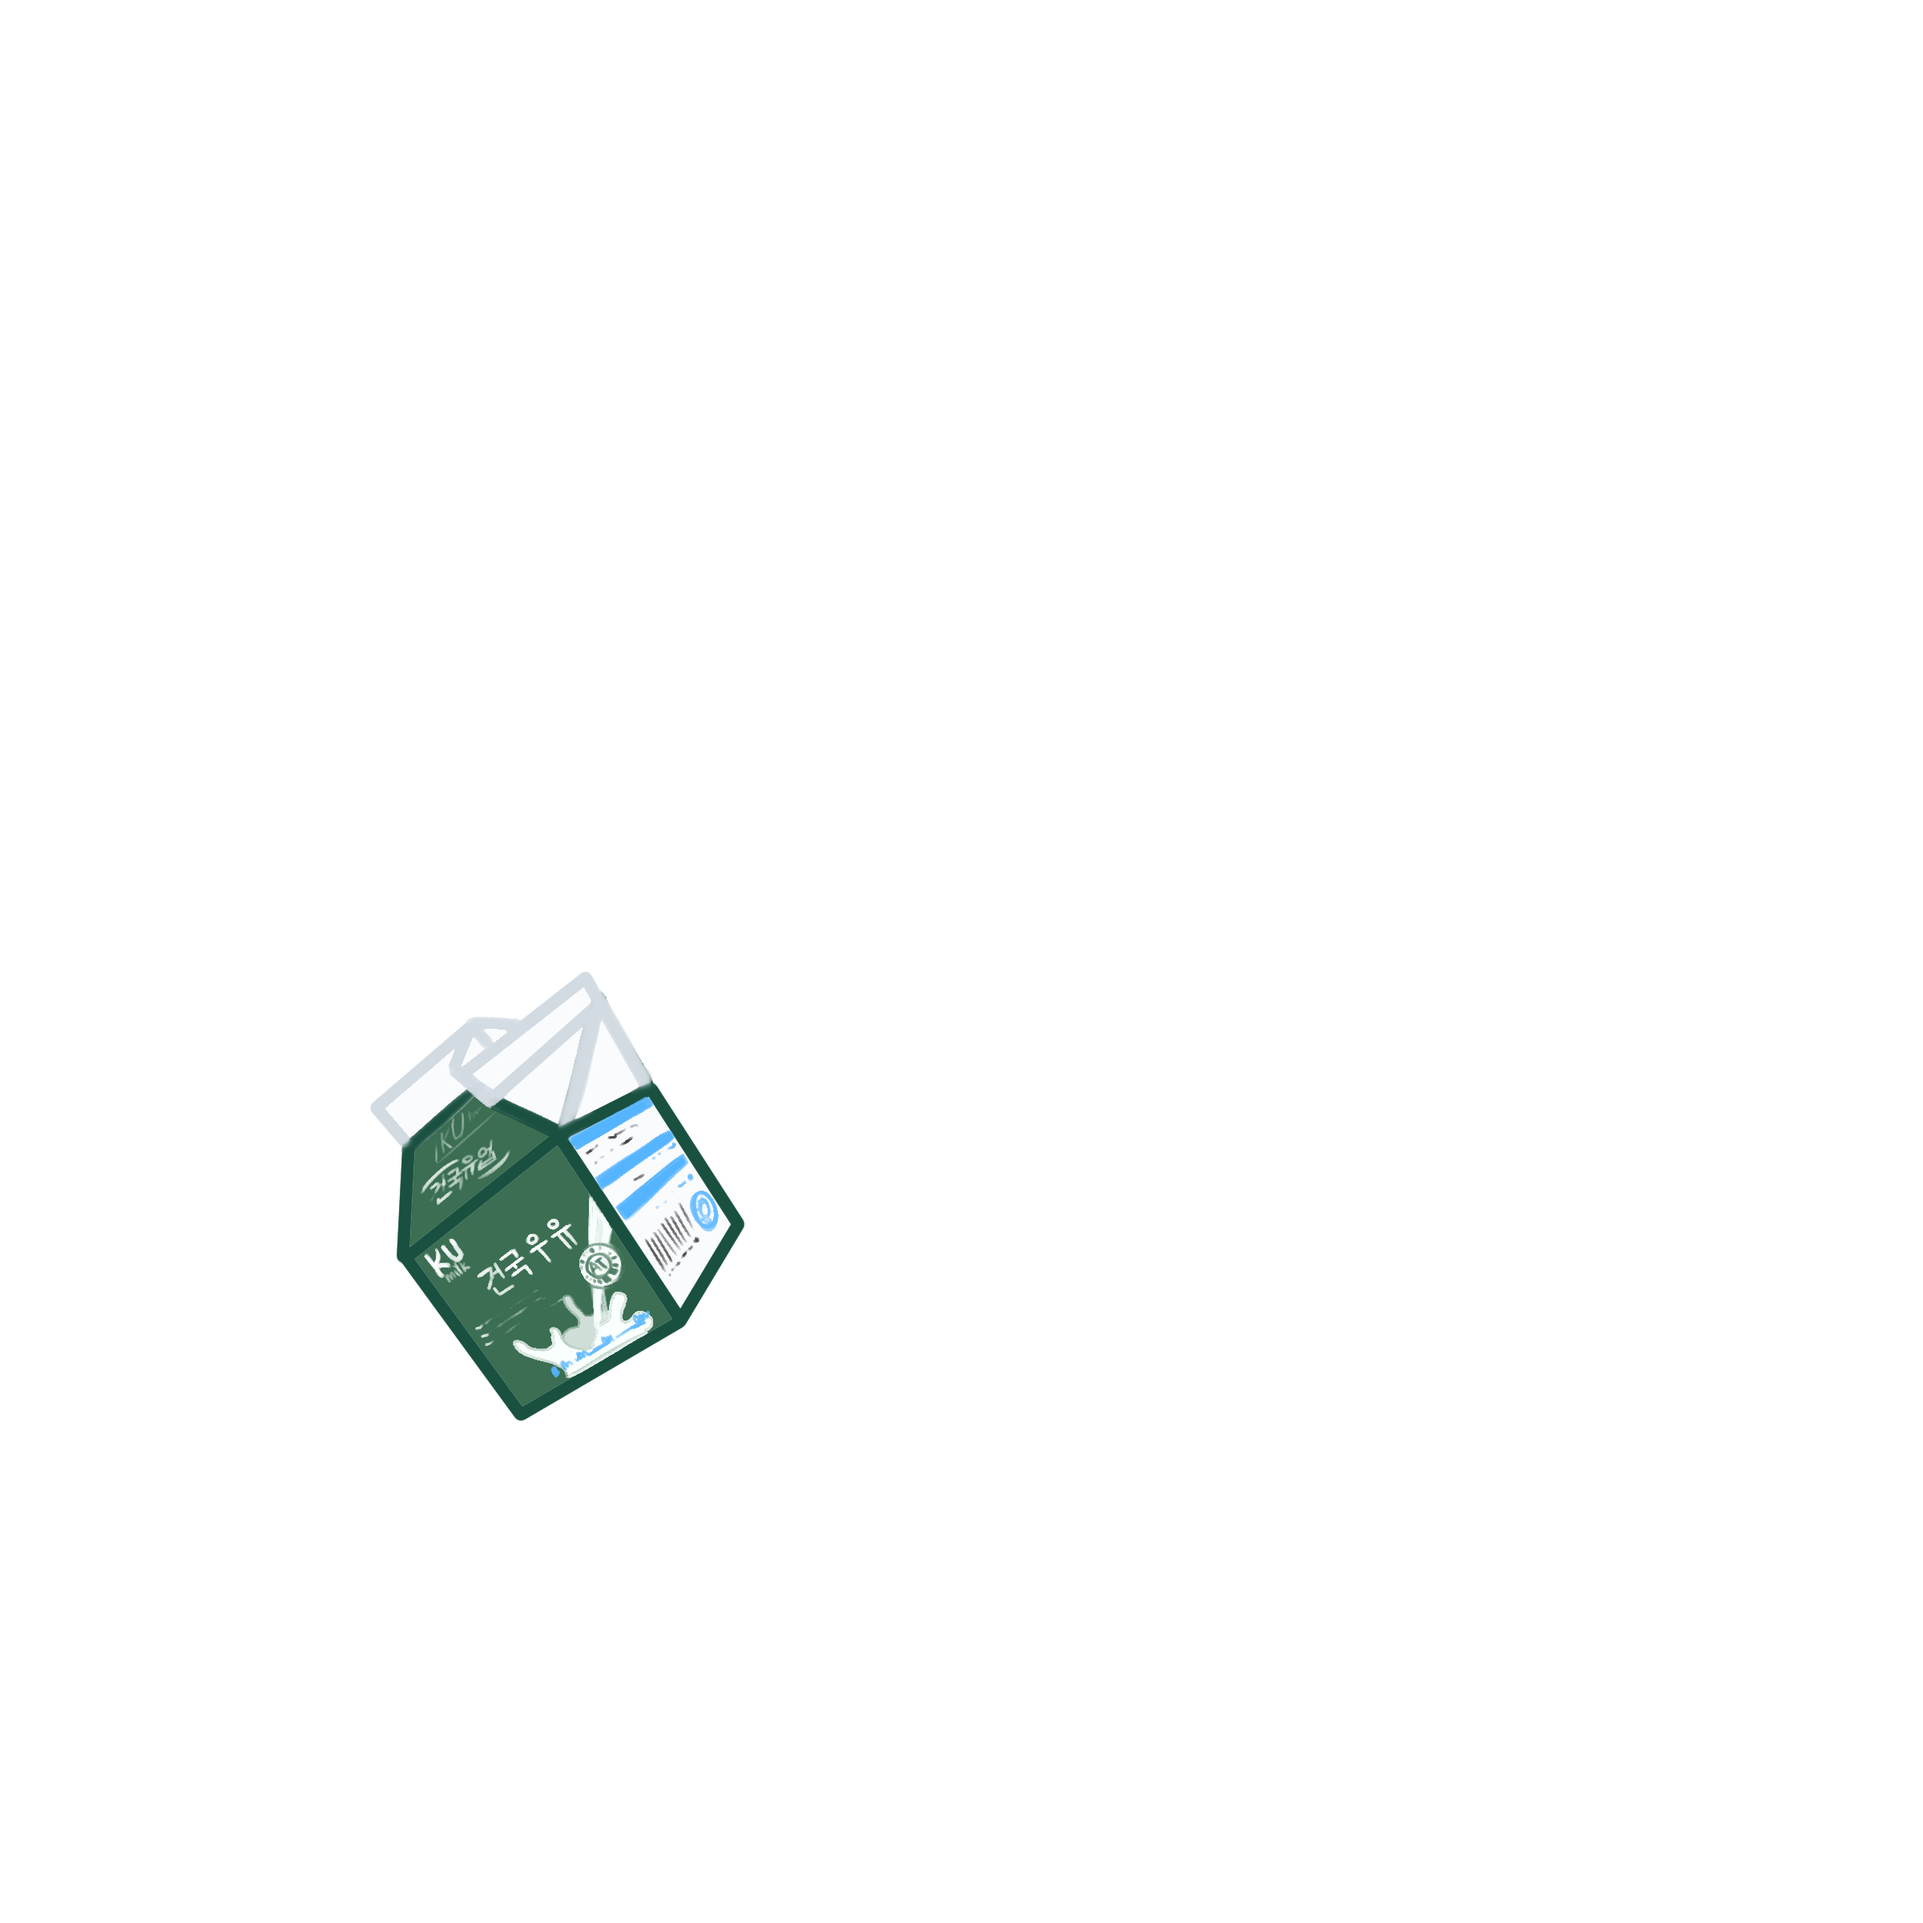
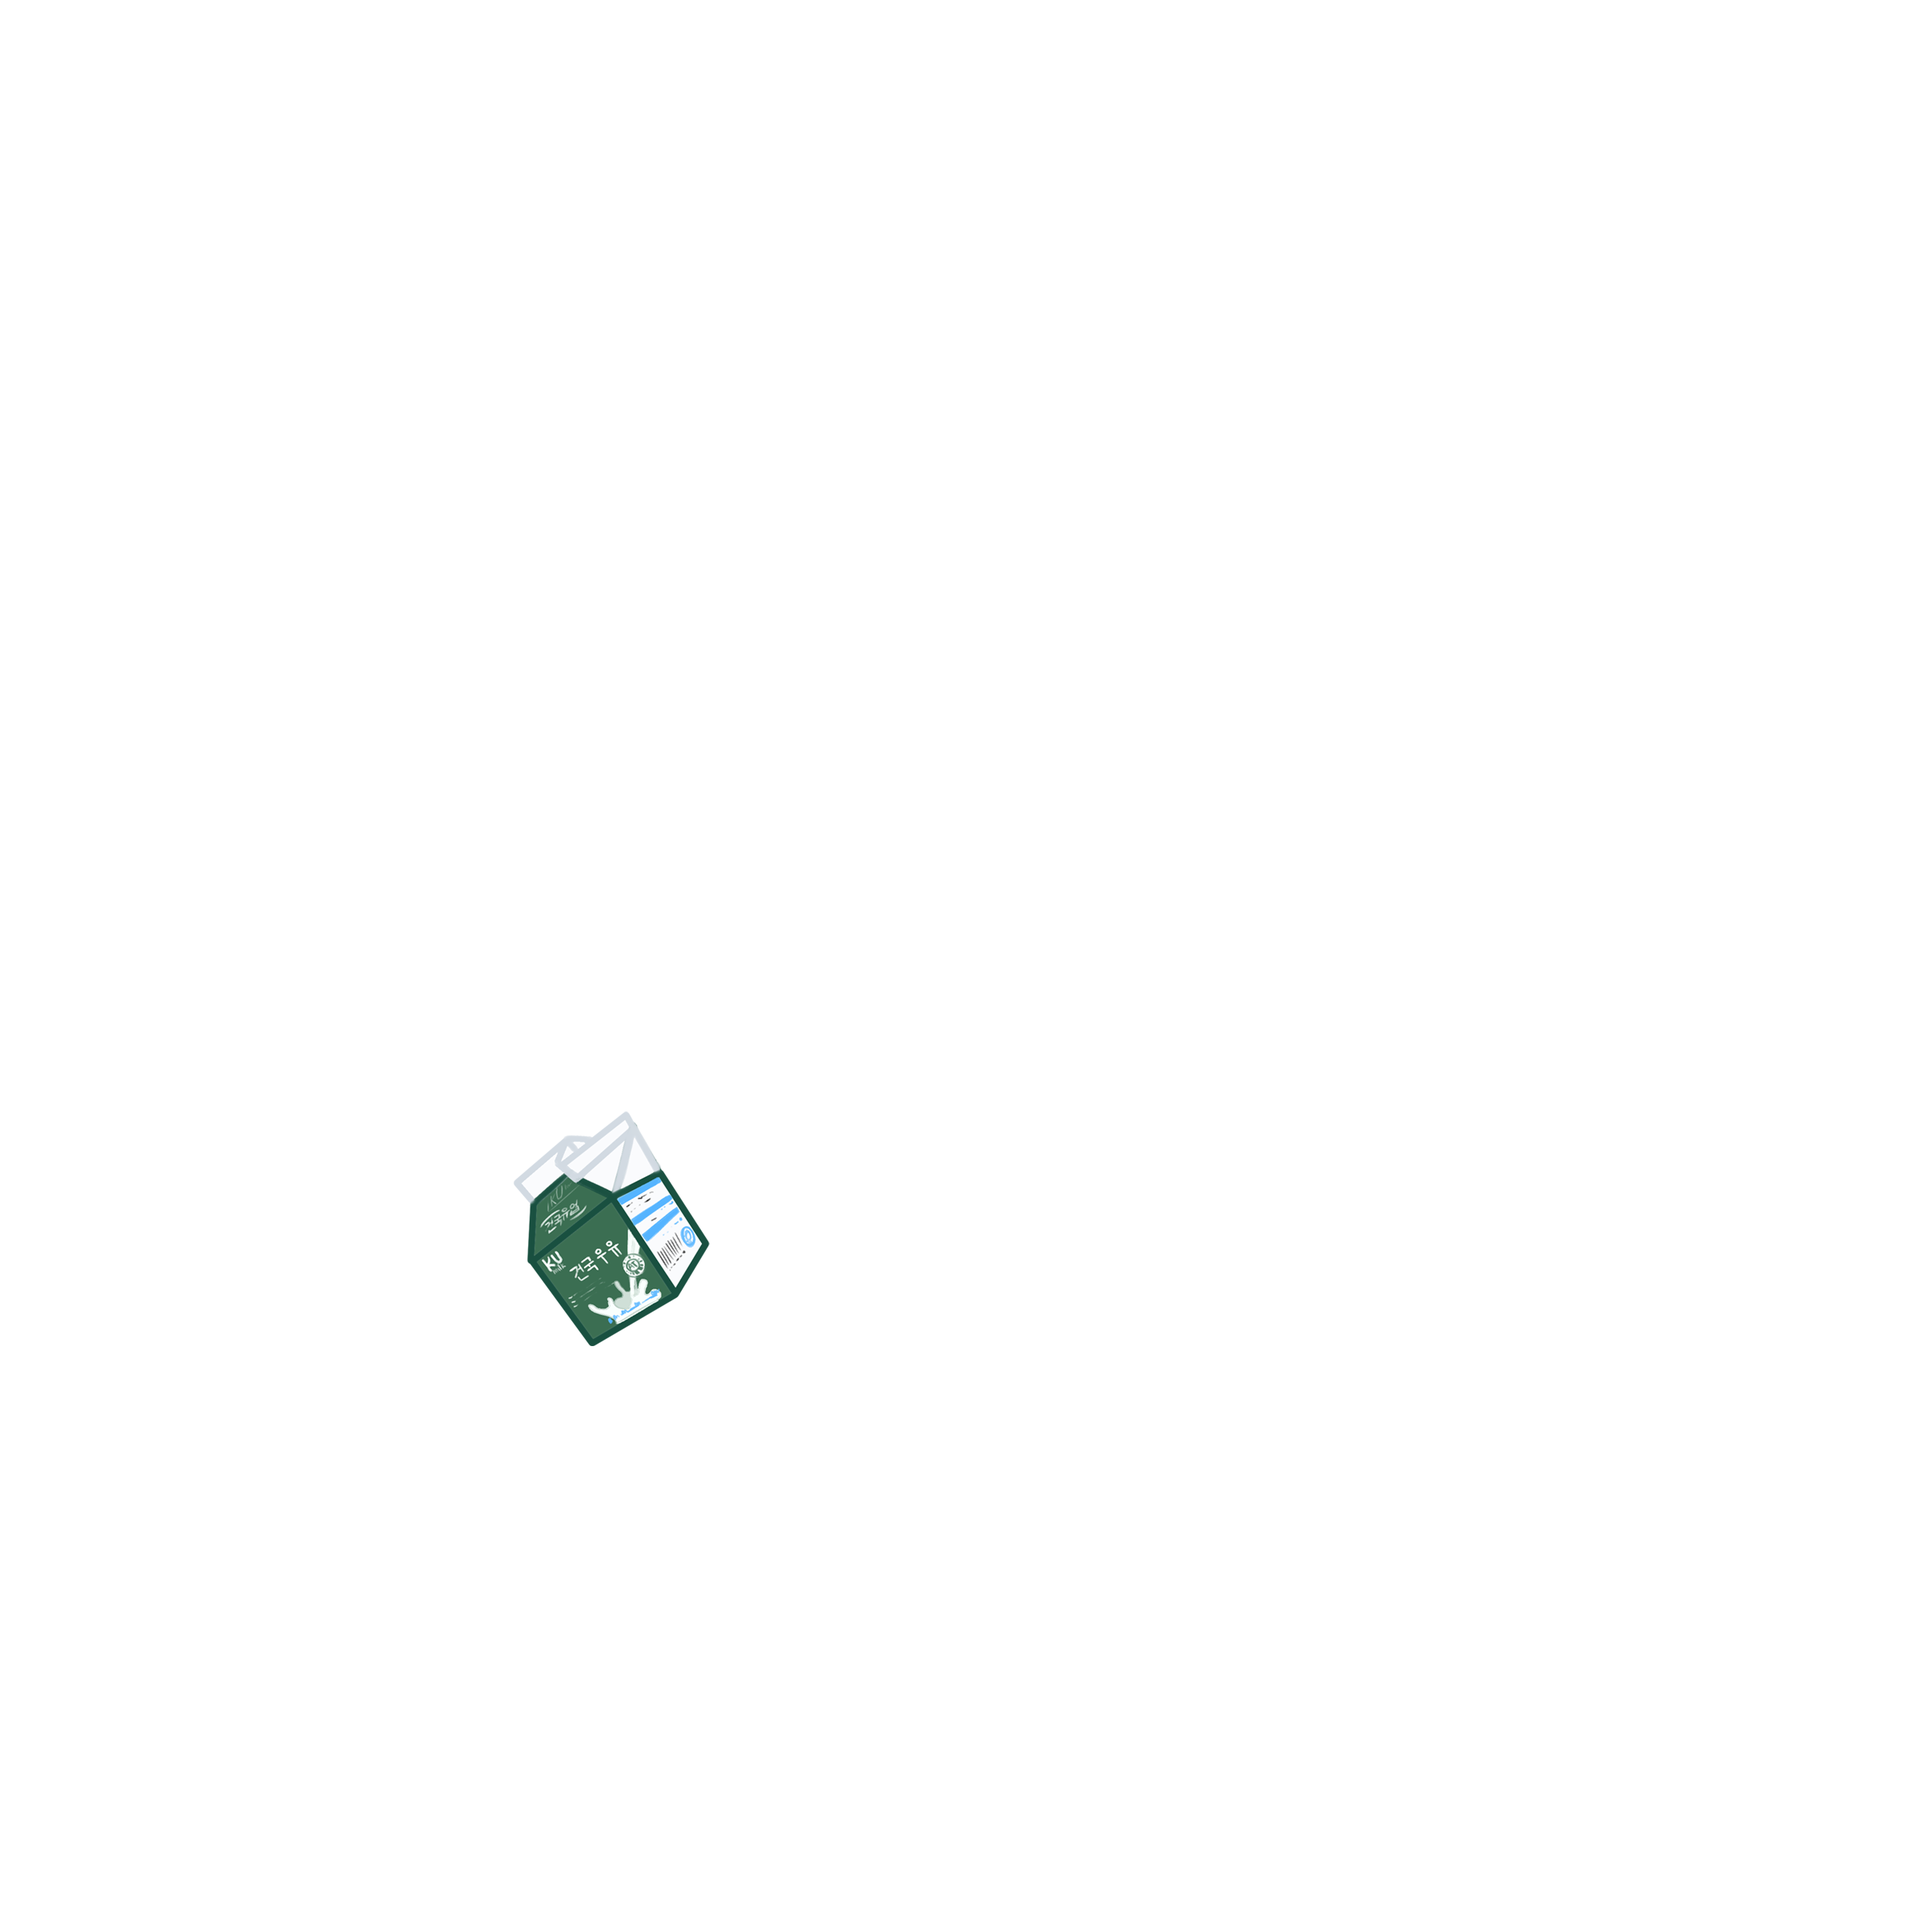
fix: Asset 수정-우유 size, 체육복 상의, 하의 병합

Changed region(s): [[0.1875, 0.5, 0.4062, 0.75]]

diff --git a/src/store/canvas.ts b/src/store/canvas.ts
@@ -17,7 +17,7 @@ import body_whiteCoatImg from 'src/assets/costume/백색가운.png'
 import hand_beakerImg from 'src/assets/costume/비커.png'
 import head_bambooHatImg from 'src/assets/costume/삿갓.png'
 import face_sunglassesImg from 'src/assets/costume/선글라스_테x.png'
-import body_sweatSuitImg from 'src/assets/costume/아디다스_상.png'
+import body_sweatSuitImg from 'src/assets/costume/아디다스_체육복.png'
 import face_glassesImg from 'src/assets/costume/안경1.png'
 import face_roundGlassesImg from 'src/assets/costume/안경2.png'
 import face_weirdGlassesImg from 'src/assets/costume/안경3.png'

diff --git a/README.md b/README.md
@@ -8,3 +8,4 @@
 > 그래서 만들었다 [데브쿠 페이지](https://www.dev-ku.shop/)
 
 
+    
